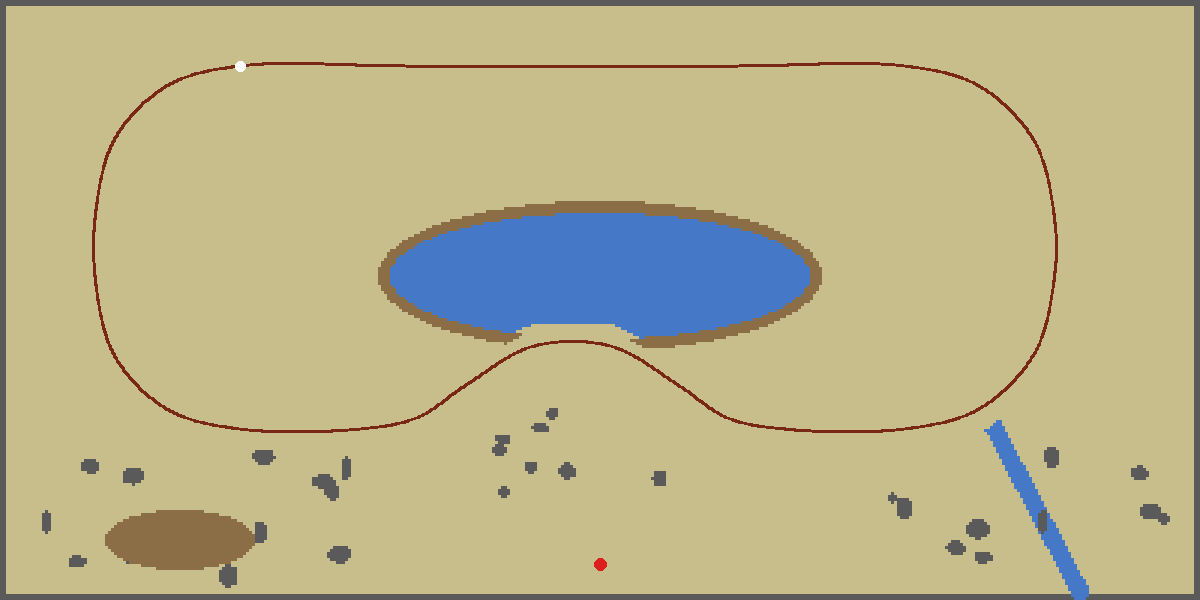
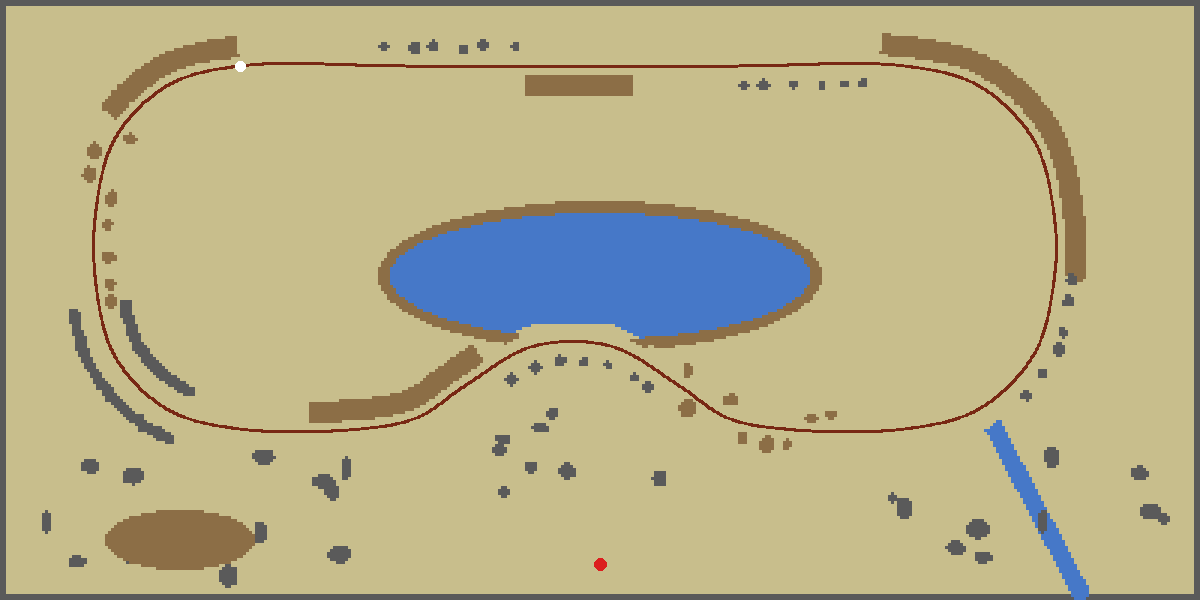
Put mud and boulders right beside the track on the new maps
Stretches of mud or rocks fill the riding lane on one side at a time, and a
few squeeze both sides with rocks just outside it, so lining up with a door
means picking a side and steering round things. The all-maps test now keeps
rock and water off the cars and checks one side of the track is always open,
instead of requiring clear ground on both sides.

Claude-Session: https://claude.ai/code/session_01Hhvtk25nBDDLMdYvjc2nc6

diff --git a/packages/tools/test/all-maps.test.ts b/packages/tools/test/all-maps.test.ts
@@ -1,5 +1,5 @@
 // Rules every playtest map in maps-src must keep, whatever its shape: it builds to the checked-in
-// file, the blank train has its route, there is room to ride beside the whole track, and the rider
+// file, the blank train has its route, one side of the track is always open to ride beside, and the rider
 // can reach the track from the spawn.
 import { describe, it, expect } from 'vitest';
 import { readdirSync, readFileSync } from 'node:fs';
@@ -10,8 +10,13 @@ import { buildMapFile, stringifyMap } from '../src/maps/build';
 import { MAPS_OUT, MAPS_SRC } from '../src/maps/cli';
 import { loadConfig } from '../src/content';
 
-/** Open or slow ground this close to every track sample, so a rider fits beside the cars. */
-const LANE_TILES = 5;
+/** No rock or water this close to the centre line: the cars are 6 tiles wide. */
+const CAR_CLEAR_TILES = 3.5;
+/**
+ * Distances from the centre line where a rider lines up with a door (boarding range is 2 tiles).
+ * Mud and rocks may fill this lane on one side, never on both at once.
+ */
+const LANE_TILES = [3.5, 4, 4.5, 5, 5.5];
 /** Tightest baked curve allowed; rigid 16-tile cars cut visibly inside anything tighter. */
 const MIN_RADIUS_TILES = 17;
 
@@ -34,16 +39,15 @@ describe.each(ids)('map %s', (id) => {
     expect(minRadiusTiles).toBeGreaterThanOrEqual(MIN_RADIUS_TILES);
   });
 
-  it(`leaves rideable ground within ${LANE_TILES} tiles of every track sample`, () => {
-    const { x: xs, y: ys } = main!.samples;
+  it('keeps rock and water off the cars and leaves one side of the track open to ride beside', () => {
+    const { x: xs, y: ys, tx, ty } = main!.samples;
+    const at = (i: number, side: number, d: number) => zone(Math.floor(xs[i]! - ty[i]! * d * side), Math.floor(ys[i]! + tx[i]! * d * side));
     for (let i = 0; i < xs.length; i++) {
-      for (let dy = -LANE_TILES; dy <= LANE_TILES; dy++) {
-        for (let dx = -LANE_TILES; dx <= LANE_TILES; dx++) {
-          if (dx * dx + dy * dy > LANE_TILES * LANE_TILES) continue;
-          const x = Math.floor(xs[i]! + dx), y = Math.floor(ys[i]! + dy);
-          expect(rideable(x, y), `${id}: ${x},${y} beside sample ${i}`).toBe(true);
-        }
+      for (let d = 0; d <= CAR_CLEAR_TILES; d += 0.25) {
+        for (const side of [-1, 1]) expect(['open', 'slow'], `${id}: ${at(i, side, d)} ${d} tiles beside sample ${i}`).toContain(at(i, side, d));
       }
+      const open = (side: number) => LANE_TILES.every((d) => at(i, side, d) === 'open');
+      expect(open(-1) || open(1), `${id}: no open lane beside sample ${i}`).toBe(true);
     }
   });
 

diff --git a/docs/playtesting.md b/docs/playtesting.md
@@ -73,7 +73,9 @@ Every map has one closed `main` route that the blank train loops on, and the rid
 
 Layouts (track in red, the white dot is where the train starts, the red dot is the spawn; grey is blocked, blue water, brown mud): [alpha-flats](maps/alpha-flats.png), [tight-loop](maps/tight-loop.png), [long-sweep](maps/long-sweep.png), [canyon-run](maps/canyon-run.png), [big-country](maps/big-country.png).
 
-The loop times are at the blank train's 9 tiles per second. The radii are as drawn; the baked spline is a little tighter where a curve meets a straight (`npm run maps` prints the tightest one), and `packages/tools/test/all-maps.test.ts` keeps every map's tightest curve at 17 tiles or more, keeps rideable ground within 5 tiles of the whole track, and checks the track can be reached from the spawn.
+On the four new maps, the track runs past stretches of mud and boulders right beside it, one side at a time: mud in the lane halves the horse's speed (slower than the train), so pick the open side or weave between the rocks while you match speed. A few stretches squeeze both sides with rocks 6 tiles out, leaving a 3-tile lane between car and rock. Every stretch leaves at least one side open.
+
+The loop times are at the blank train's 9 tiles per second. The radii are as drawn; the baked spline is a little tighter where a curve meets a straight (`npm run maps` prints the tightest one), and `packages/tools/test/all-maps.test.ts` keeps every map's tightest curve at 17 tiles or more, keeps rock and water off the cars and one side of the track open to ride beside, and checks the track can be reached from the spawn.
 
 Map changes (zones, the route, the spawn) are made in Tiled: open the `.tmj` in `packages/content/maps-src/` and save, with `npm run maps:watch` rebuilding the map on every save. A new `.tmj` there becomes a new `?map=` id with no other change. See "Tiled workflow in detail" in the design doc.
 
